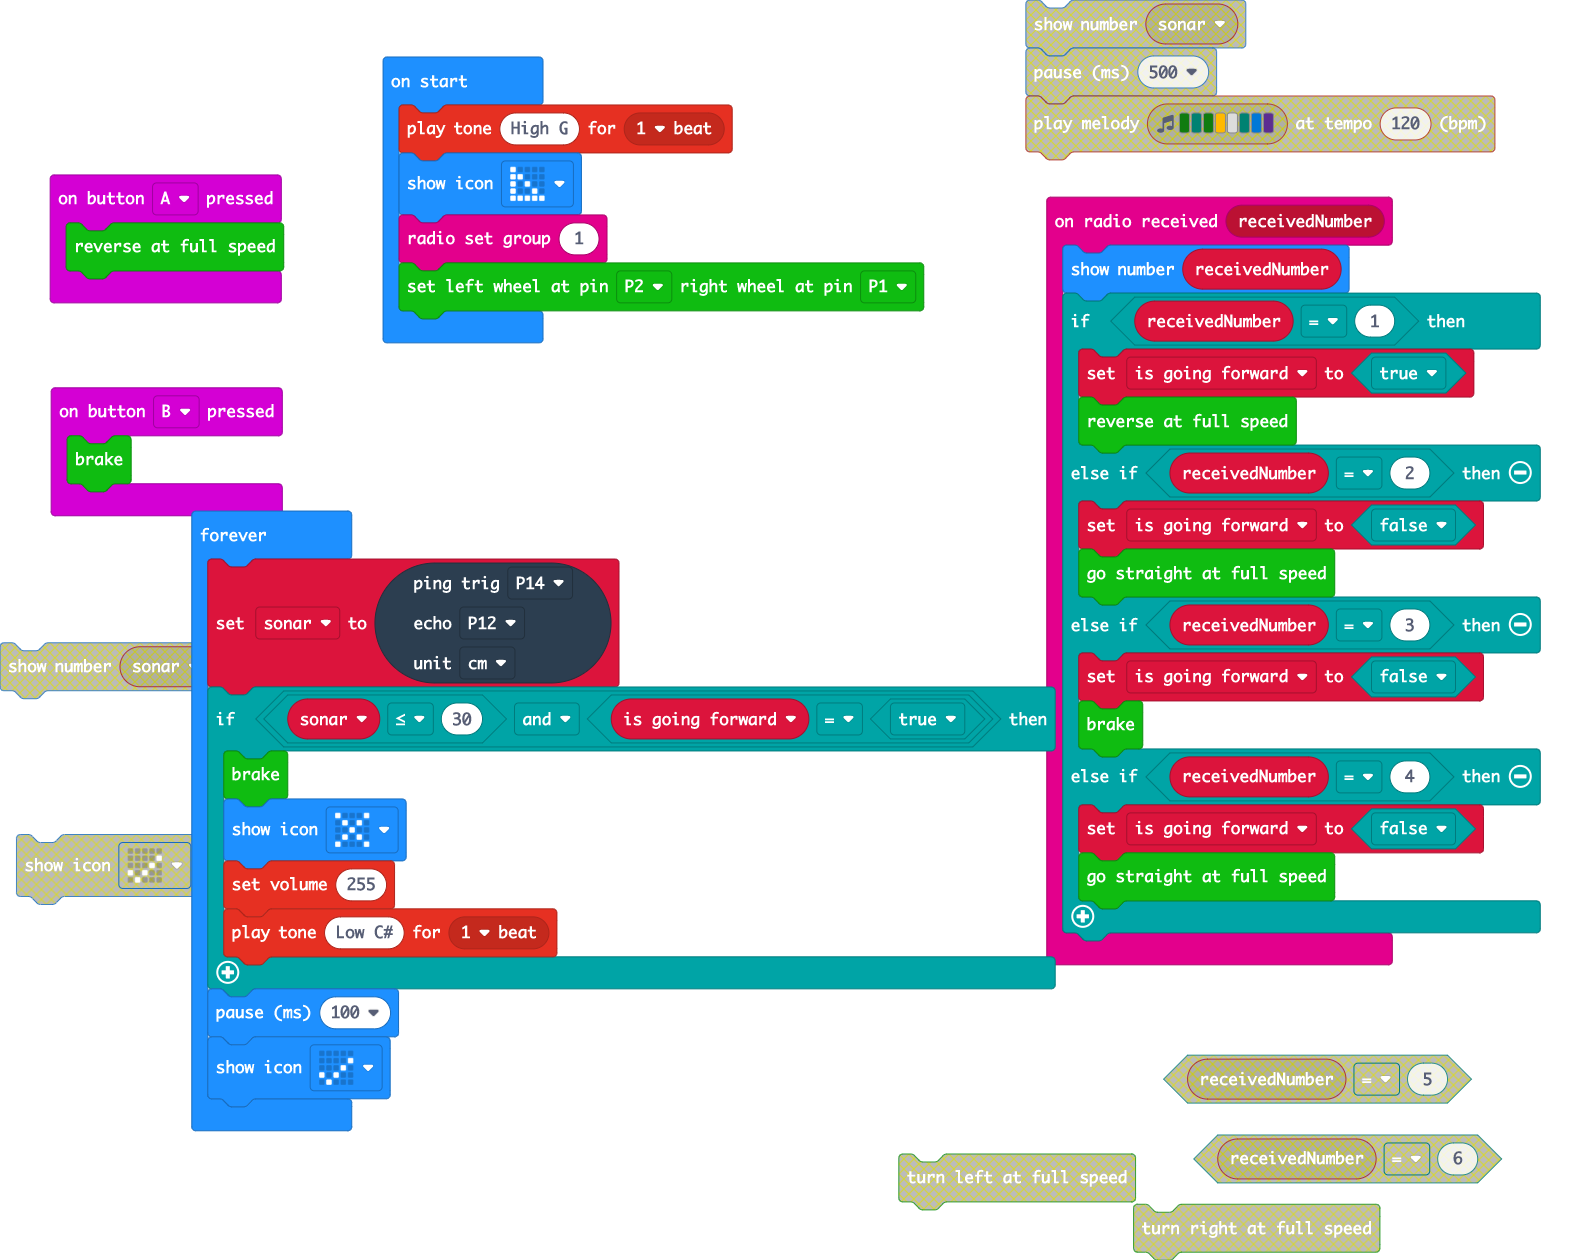
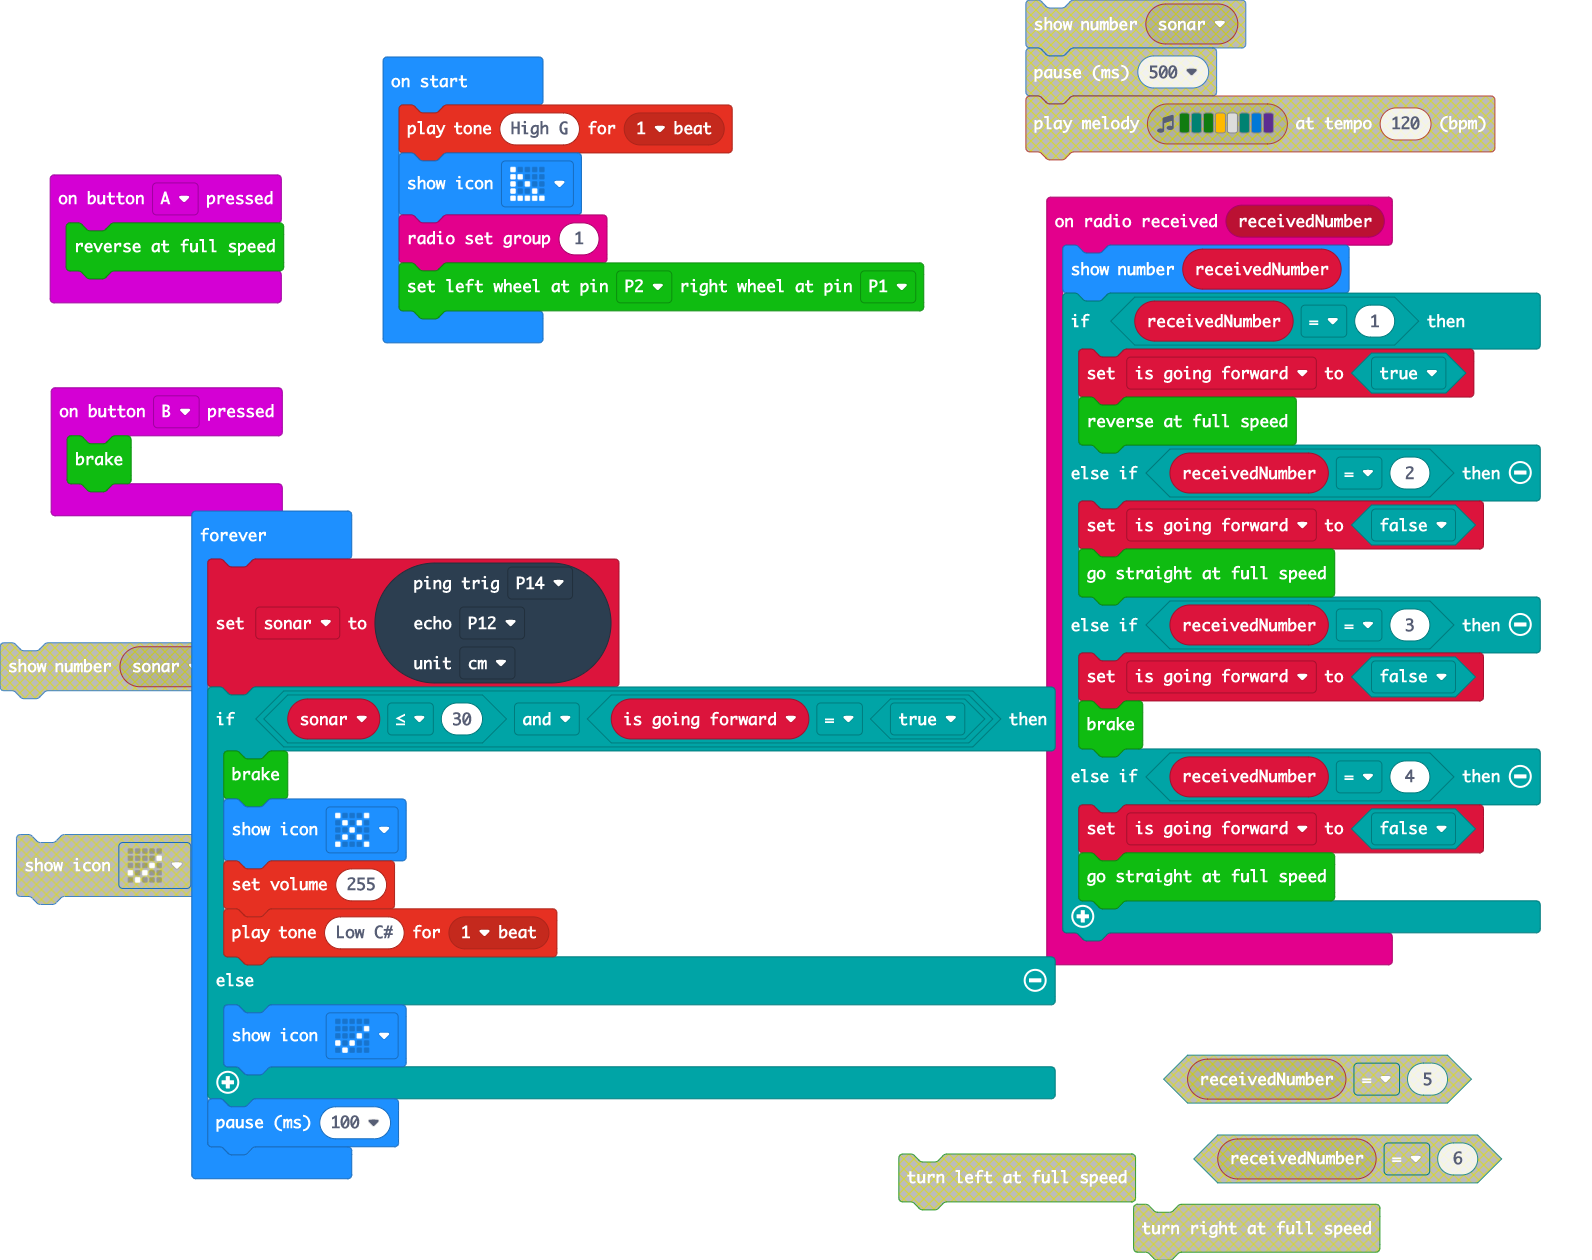
Update main.blocks, main.ts

Changed region(s): [[0.0923, 0.7738, 0.6771, 0.9595]]

diff --git a/main.ts b/main.ts
@@ -37,7 +37,8 @@ basic.forever(function () {
         basic.showIcon(IconNames.No)
         music.setVolume(255)
         music.playTone(139, music.beat(BeatFraction.Whole))
+    } else {
+        basic.showIcon(IconNames.Yes)
     }
     basic.pause(100)
-    basic.showIcon(IconNames.Yes)
 })
